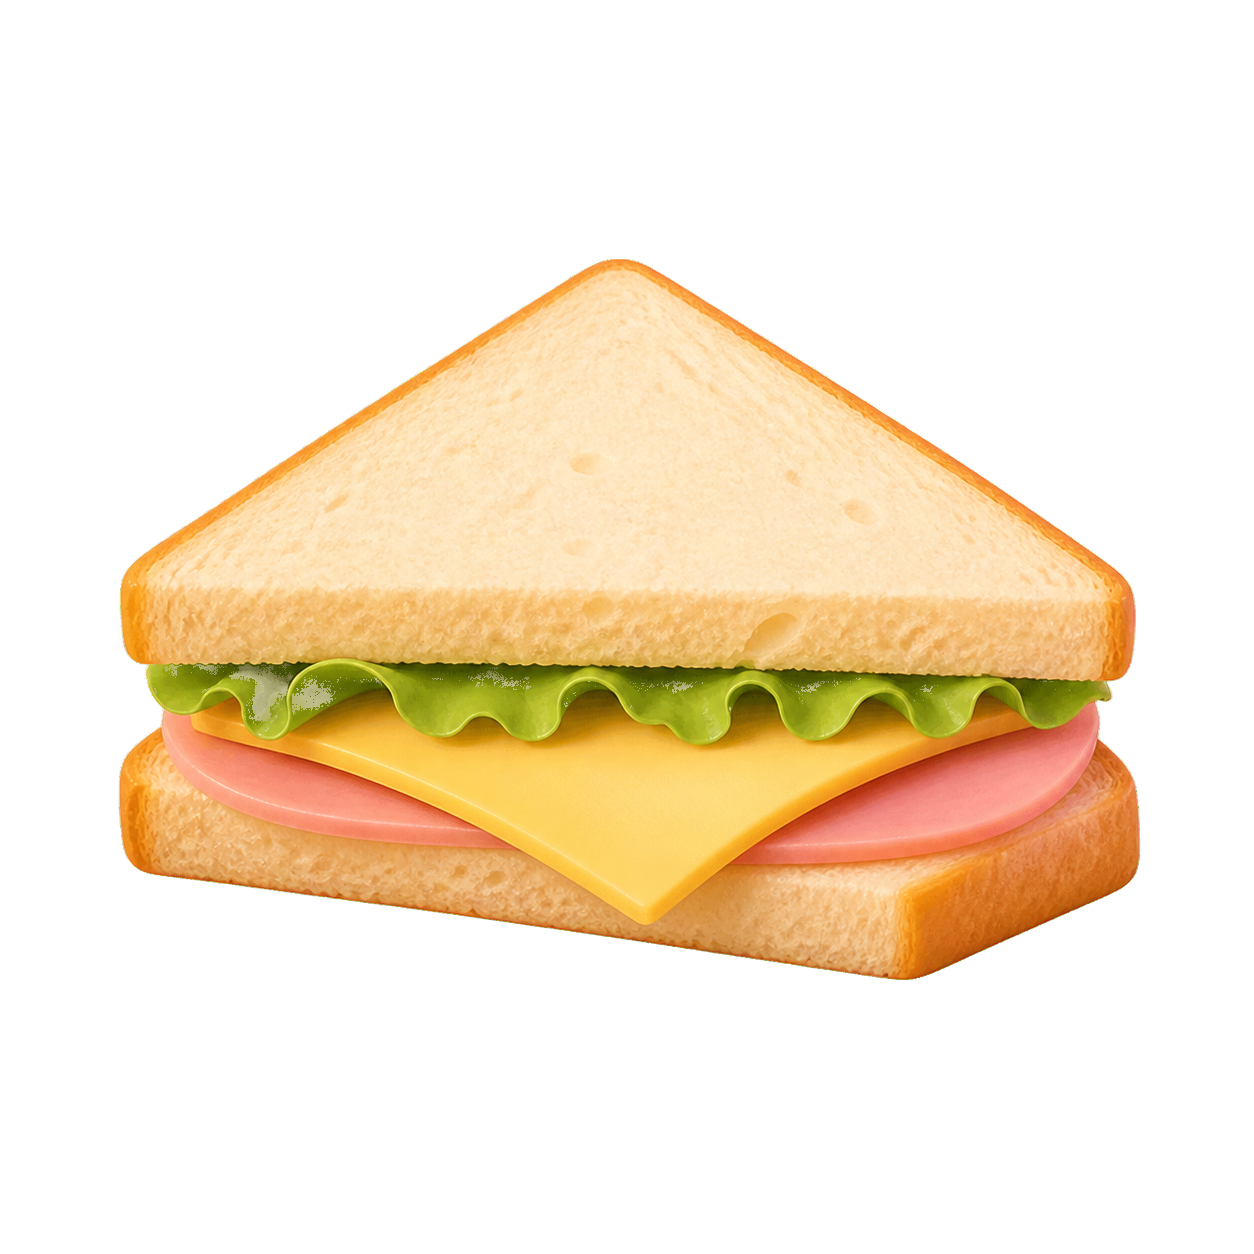
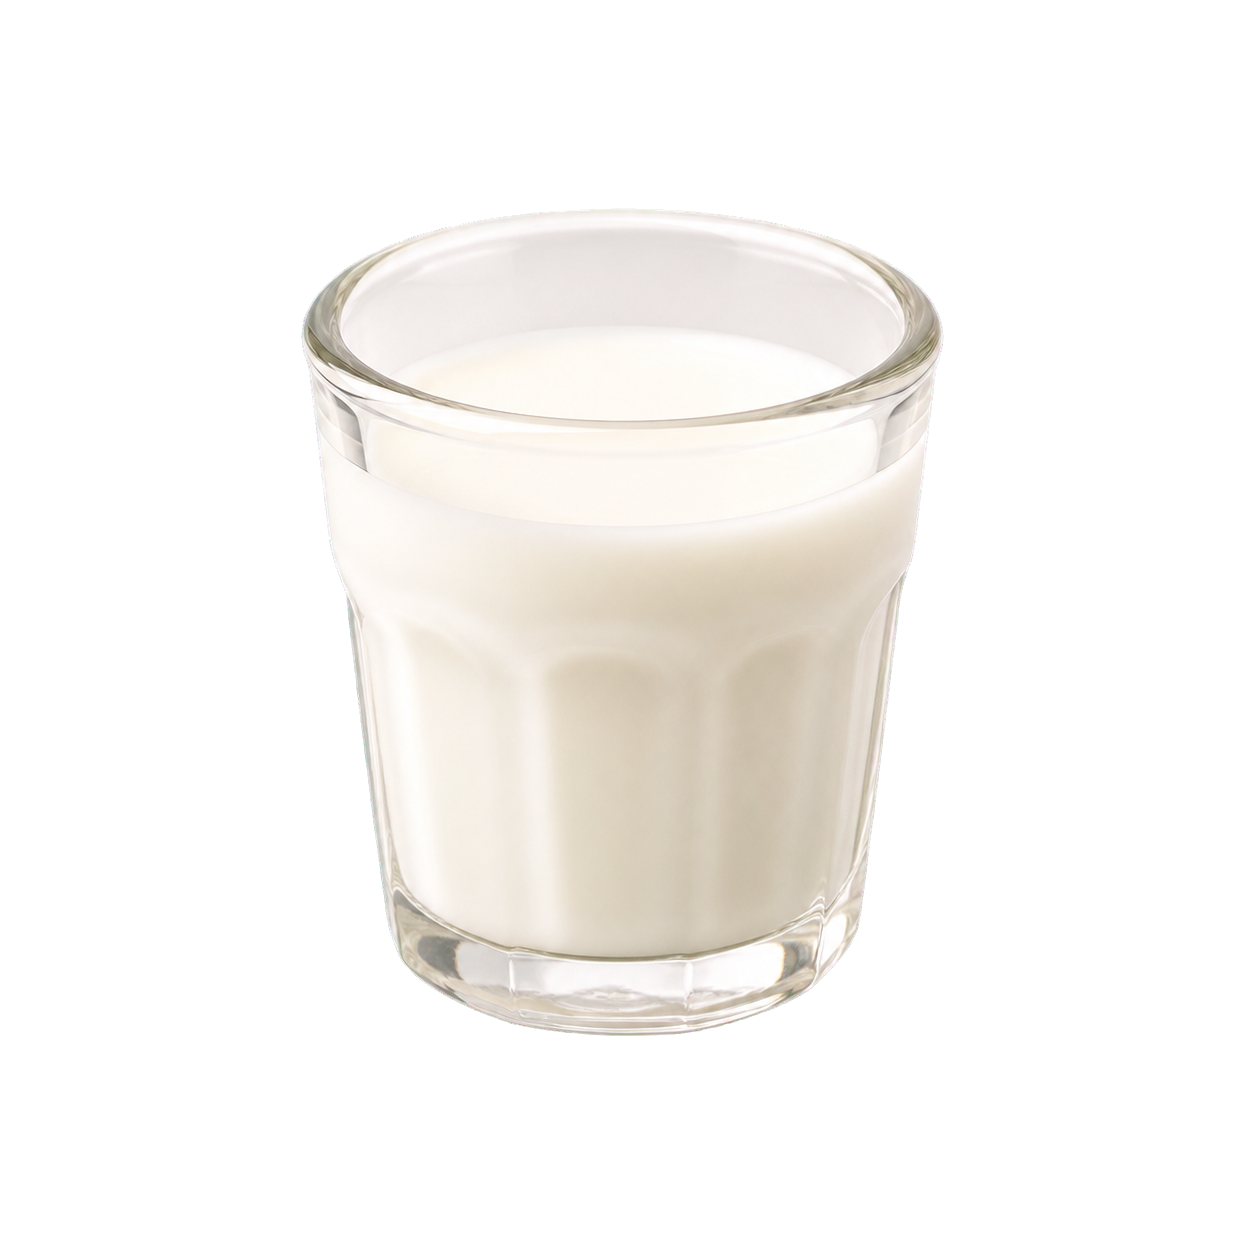
Repair cafe visuals and menu assets

diff --git a/mormi-web/app/globals.css b/mormi-web/app/globals.css
@@ -486,3 +486,106 @@ button.complete-report-link { width:100%; border:0; cursor:pointer; }
 .onboarding-greeting h1{font-size:clamp(34px,4.4vw,54px);letter-spacing:-3px}
 .home-room-copy h1{margin-bottom:24px;font-size:clamp(34px,4.2vw,52px);letter-spacing:-3px}
 @media(max-width:760px){.onboarding-greeting h1{font-size:32px;letter-spacing:-2px}.home-room-copy h1{font-size:30px;letter-spacing:-2px}}
+
+/* Cafe visual repair: one café room, stable card geometry, faithful Figma menu order */
+.figma-cafe{
+  --cafe-ink:#3c3028;
+  --cafe-caramel:#b9794d;
+  --cafe-caramel-dark:#855234;
+  --cafe-mint:#6ab89f;
+  --cafe-cream:#fffaf2;
+  --cafe-line:#e6ccb3;
+  padding:18px 24px 46px;
+  color:var(--cafe-ink);
+  background:
+    linear-gradient(180deg,rgba(255,250,244,.2) 0%,rgba(252,244,235,.7) 68%,rgba(251,244,236,.96) 100%),
+    url('/scenes/cafe-bakery-cute-v4.png') center top/cover fixed;
+}
+.figma-cafe__bar{
+  min-height:62px;margin-bottom:14px;padding:7px 12px;
+  grid-template-columns:120px auto 1fr;gap:18px;
+  border:1px solid rgba(218,190,163,.9);border-radius:20px;
+  background:rgba(255,252,247,.94);box-shadow:0 10px 28px rgba(106,73,51,.12);
+  backdrop-filter:blur(10px);
+}
+.figma-cafe__bar>button{border-color:#dfc1a6;color:#70472f;background:#fffaf5}
+.figma-cafe__place{display:flex;align-items:center;gap:8px;white-space:nowrap;color:#6c4028;font-size:17px;font-weight:950}
+.figma-cafe__place>span{width:34px;height:34px;display:grid;place-items:center;border-radius:50%;background:#f4dfc7}
+.figma-cafe__bar .figma-cafe__steps{justify-content:flex-end}
+.figma-cafe__bar .figma-cafe__steps span.is-active i{background:var(--cafe-caramel)}
+.figma-cafe__bar .figma-cafe__steps span:not(:last-child)::after{border-color:#d6b899}
+
+.figma-cafe-map,.figma-cafe-panel{
+  width:min(1133px,100%);min-height:700px;
+  border:1px solid rgba(222,193,167,.95);border-radius:30px;
+  box-shadow:0 26px 70px rgba(91,62,42,.18),inset 0 1px 0 rgba(255,255,255,.92);
+}
+.figma-cafe-panel{
+  padding:30px 34px;
+  background:
+    linear-gradient(rgba(255,252,246,.94),rgba(255,249,240,.97)),
+    url('/scenes/cafe-bakery-cute-v4.png') center/cover;
+}
+.figma-cafe-panel>h1,.figma-cafe-panel__heading h1{color:#4b3426;font-size:clamp(24px,2.3vw,31px);font-weight:900}
+.figma-cafe-panel>h2{margin-top:34px;color:#5c4639;font-size:clamp(23px,2.2vw,29px);font-weight:850}
+.figma-cafe-action,.figma-cafe-done button{
+  border:1px solid #57967f;color:#fff;background:linear-gradient(180deg,#79cbb0,#55a88d);box-shadow:0 6px 0 #397f69;font-weight:950;
+}
+.figma-cafe-action:disabled{box-shadow:none}
+.figma-cafe-feedback{padding:7px 14px;border-radius:12px;background:rgba(239,249,240,.9)}
+
+.figma-cafe-menu__layout{grid-template-columns:minmax(0,1fr) 225px;gap:26px}
+.figma-cafe-menu__grid{min-width:0;gap:18px}
+.figma-cafe-menu__grid button{
+  height:202px;padding:9px 15px 13px;grid-template-rows:112px 1fr;
+  border:2px solid var(--cafe-line);background:rgba(255,244,222,.95);box-shadow:0 8px 18px rgba(114,77,48,.08);
+}
+.figma-cafe-menu__grid button:hover{transform:translateY(-2px);border-color:#cca27b;box-shadow:0 11px 22px rgba(114,77,48,.14)}
+.figma-cafe-menu__grid button.is-selected{border-color:#66a47f;background:#edf7eb;box-shadow:0 0 0 2px rgba(102,164,127,.16),0 10px 22px rgba(71,119,88,.14)}
+.figma-cafe-menu__grid img{width:100%;height:112px;object-fit:contain}
+.figma-cafe-menu__grid b{font-size:18px;font-weight:850}.figma-cafe-menu__grid strong{font-weight:750}
+.figma-cafe-panel__heading>strong{border-color:#ddbd77;background:#ffe79b;color:#5b422c;font-weight:850}
+.figma-cafe-menu aside{min-width:0;min-height:422px;border:2px solid #cfe0c8;background:rgba(240,247,235,.96);box-shadow:0 8px 18px rgba(78,104,68,.08)}
+.figma-cafe-menu aside button{margin:auto 0 0;border-radius:16px;color:#fff;background:linear-gradient(#77c5a9,#56aa8f);font-weight:900}
+
+.figma-cafe-sum__equation{
+  width:min(960px,100%);margin:58px auto 0;
+  display:grid;grid-template-columns:minmax(210px,300px) 42px minmax(210px,300px) 42px minmax(190px,240px);gap:12px;
+}
+.figma-cafe-sum__equation>div{display:contents}
+.figma-cafe-sum__equation article{width:auto;min-width:0;min-height:220px;padding:24px;border:2px solid #ead4b7;background:rgba(255,241,211,.96);box-shadow:0 10px 22px rgba(117,80,49,.08)}
+.figma-cafe-sum__equation article span{font-size:22px;font-weight:850}.figma-cafe-sum__equation article strong{margin-top:27px;font-size:30px;font-weight:800;white-space:nowrap}
+.figma-cafe-sum__equation>b,.figma-cafe-sum__equation>div>b{display:grid;place-items:center;font-size:38px;font-weight:900}
+.figma-cafe-sum__equation label{width:auto;min-width:0;min-height:160px;padding:24px 20px;display:flex;flex-direction:column;justify-content:center;border:2px solid #cbe0ca;background:rgba(232,245,229,.98)}
+.figma-cafe-sum__equation label>span{font-size:17px;font-weight:850;white-space:nowrap}
+.figma-cafe-sum__equation label>div{width:100%;display:flex;align-items:baseline;justify-content:center;gap:5px}
+.figma-cafe-sum__equation input{width:calc(100% - 28px);font-size:31px;font-weight:900;text-align:center;white-space:nowrap}
+.figma-cafe-sum__equation input::placeholder{color:#779279}.figma-cafe-sum__equation small{flex:0 0 auto;font-size:21px;white-space:nowrap}
+.figma-cafe-money-hint{width:min(760px,92%);margin-top:48px;padding:15px 20px;gap:8px;background:rgba(232,240,255,.94)}
+.figma-cafe-money-hint span{width:82px;display:flex;flex-direction:column;align-items:center;color:#455b78;font-size:11px;line-height:1.05}
+.figma-cafe-money-hint img{width:76px;height:38px;object-fit:contain}.figma-cafe-money-hint b{white-space:nowrap}
+
+.figma-cafe-queue::before{background:rgba(235,242,255,.9)}
+.figma-cafe-queue__choice button{border:1px solid #e2cbaa;background:#f8e8c9}.figma-cafe-queue__choice button:last-child{background:#e7f3e4}
+.figma-cafe-pay__layout>aside,.figma-cafe-wallet article{background:rgba(255,248,237,.96)}
+.figma-cafe-change__equation{border:1px solid #e2c8a8;background:rgba(248,231,202,.95)}
+.figma-cafe-change__builder aside{background:rgba(235,242,255,.96)}
+
+@media(max-width:900px){
+  .figma-cafe__bar{grid-template-columns:105px 1fr}.figma-cafe__place{display:none}.figma-cafe__bar .figma-cafe__steps{justify-content:center}
+  .figma-cafe-sum__equation{grid-template-columns:minmax(150px,1fr) 32px minmax(150px,1fr);gap:8px}
+  .figma-cafe-sum__equation>div:nth-child(2)+b{display:none}
+  .figma-cafe-sum__equation label{grid-column:1/4;width:min(310px,100%);justify-self:center;min-height:112px}
+}
+@media(max-width:760px){
+  .figma-cafe{padding:7px 6px 24px;background-attachment:scroll;background-position:center top}
+  .figma-cafe__bar{grid-template-columns:78px 1fr;padding:5px 7px;border-radius:16px}.figma-cafe__bar>button{min-height:39px}
+  .figma-cafe-map,.figma-cafe-panel{border-radius:22px}.figma-cafe-panel{padding:20px 12px;background:linear-gradient(rgba(255,252,246,.96),rgba(255,249,240,.98)),url('/scenes/cafe-bakery-cute-v4.png') center/cover}
+  .figma-cafe-menu__grid{gap:9px}.figma-cafe-menu__grid button{height:174px;grid-template-rows:96px 1fr}.figma-cafe-menu__grid img{height:96px}
+  .figma-cafe-menu aside{min-height:230px}.figma-cafe-menu aside button{margin-top:14px}
+  .figma-cafe-sum__equation{margin-top:30px;grid-template-columns:1fr 26px 1fr;gap:6px}
+  .figma-cafe-sum__equation article{width:auto;min-height:158px;padding:12px 7px}.figma-cafe-sum__equation article span{font-size:16px}.figma-cafe-sum__equation article strong{margin-top:18px;font-size:19px}
+  .figma-cafe-sum__equation>b,.figma-cafe-sum__equation>div>b{font-size:27px}
+  .figma-cafe-sum__equation label{grid-column:1/4;min-height:96px;padding:12px}.figma-cafe-sum__equation input{font-size:26px}
+  .figma-cafe-money-hint{width:100%;margin-top:22px;padding:10px 7px}.figma-cafe-money-hint span{width:61px}.figma-cafe-money-hint img{width:58px;height:30px}
+}

diff --git a/mormi-web/app/CafeJourney.tsx b/mormi-web/app/CafeJourney.tsx
@@ -8,12 +8,12 @@ import { cafeMoney, cafeStations } from "./journey-config";
 type CafeStep = "overview" | "queue" | "menu" | "sum" | "pay" | "change" | "done";
 
 const menu = [
-  { id: "americano", name: "아메리카노", price: 3000, image: "/figma/cafe/americano.png" },
-  { id: "milk", name: "우유", price: 2000, image: "/figma/cafe/milk.png" },
-  { id: "strawberry-juice", name: "딸기주스", price: 4000, image: "/figma/cafe/strawberry-juice.png" },
-  { id: "cookie", name: "쿠키", price: 2000, image: "/figma/cafe/cookie.png" },
-  { id: "strawberry-cake", name: "딸기케이크", price: 3000, image: "/figma/cafe/strawberry-cake.png" },
-  { id: "sandwich", name: "샌드위치", price: 4000, image: "/figma/cafe/sandwich.png" },
+  { id: "americano", name: "아메리카노", price: 3000, image: "/figma/cafe/americano.png?v=2" },
+  { id: "milk", name: "우유", price: 2000, image: "/figma/cafe/milk.png?v=2" },
+  { id: "strawberry-juice", name: "딸기주스", price: 4000, image: "/figma/cafe/strawberry-juice.png?v=2" },
+  { id: "cookie", name: "쿠키", price: 2000, image: "/figma/cafe/cookie.png?v=2" },
+  { id: "strawberry-cake", name: "딸기케이크", price: 3000, image: "/figma/cafe/strawberry-cake.png?v=2" },
+  { id: "sandwich", name: "샌드위치", price: 4000, image: "/figma/cafe/sandwich.png?v=2" },
 ] as const;
 
 const stationCopy = [
@@ -147,7 +147,8 @@ export function CafeJourney({ onBack, onComplete }: Props) {
     <section className={`figma-cafe figma-cafe--${step}`}>
       <div className="figma-cafe__bar">
         <button onClick={step === "overview" ? onBack : returnToMap}>← {step === "overview" ? "외출 장소" : "돌다리"}</button>
-        <div aria-label="카페 진행 단계">
+        <strong className="figma-cafe__place"><span aria-hidden="true">☕</span> 모르미 카페</strong>
+        <div className="figma-cafe__steps" aria-label="카페 진행 단계">
           {cafeStations.map((station, index) => <span key={station} className={index <= stationIndex ? "is-active" : ""}><i>{index < journeyProgress ? "✓" : index + 1}</i>{station}</span>)}
         </div>
       </div>
@@ -203,10 +204,12 @@ export function CafeJourney({ onBack, onComplete }: Props) {
         <main className="figma-cafe-panel figma-cafe-sum" data-figma-node="74:8">
           <h1>3. 메뉴 값 합하기</h1><h2>고른 메뉴의 값을 모두 더해 봐요</h2>
           <div className="figma-cafe-sum__equation">
-            {selectedItems.map((item, index) => <div key={item.id}><article><Image src={item.image} alt="" width={130} height={90} unoptimized /><span>{item.name}</span><strong>{item.price.toLocaleString("ko-KR")}원</strong></article>{index < selectedItems.length - 1 && <b>＋</b>}</div>)}
-            <b>=</b><label><span>합계</span><input aria-label="메뉴 합계" inputMode="numeric" value={sumAnswer} onChange={(event) => { setSumAnswer(event.target.value.replace(/[^0-9]/g, "")); setSumFeedback(""); }} placeholder="?" /><small>원</small></label>
+            {selectedItems.map((item, index) => <div key={item.id}><article><span>{item.name}</span><strong>{item.price.toLocaleString("ko-KR")}원</strong></article>{index < selectedItems.length - 1 && <b aria-hidden="true">＋</b>}</div>)}
+            <b aria-hidden="true">=</b><label><span>합계</span><div><input aria-label="메뉴 합계" inputMode="numeric" value={sumAnswer} onChange={(event) => { setSumAnswer(event.target.value.replace(/[^0-9]/g, "")); setSumFeedback(""); }} placeholder="?" /><small>원</small></div></label>
           </div>
-          <div className="figma-cafe-money-hint">{Array.from({ length: Math.ceil(selectedTotal / 1000) }, (_, index) => <span key={index}>1,000원</span>)}</div>
+          <div className="figma-cafe-money-hint" aria-label={`천 원짜리 ${Math.ceil(selectedTotal / 1000)}장`}>
+            {Array.from({ length: Math.ceil(selectedTotal / 1000) }, (_, index) => <span key={index}><Image src="/cafe-money/1000.png" alt="" width={92} height={48} unoptimized /><b>1,000원</b></span>)}
+          </div>
           {sumFeedback && <p className="figma-cafe-feedback" role="status">{sumFeedback}</p>}
           <button className="figma-cafe-action" onClick={checkSum} disabled={!sumAnswer}>합계 확인</button>
         </main>

diff --git a/mormey.md b/mormey.md
@@ -135,6 +135,8 @@ AI 팀이 문제 생성 API를 만든다면 최소한 아래 구조로 반환하
 - 운영 전환 시 같은 구조를 `POST /v1/learners` 응답으로 교체한다.
 - 카페 필수 세션 `money-count`, `money-price`, `money-budget`, `money-mission` 네 개가 모두 완료되어야 카페가 열린다.
 - 카페 스테이지는 Figma `70:303`의 돌다리 화면을 기준으로 `줄 서기 → 메뉴 고르기 → 계산하기 → 거스름돈 받기` 순서이며, 직전 스테이지를 완료해야 다음 돌다리가 열린다.
+- 카페의 모든 상세 화면은 동일한 베이커리 카페 배경과 크림·캐러멜·민트 계열 카드 체계를 사용한다. 메뉴 이미지는 Figma `74:6`의 순서와 라벨을 기준으로 `아메리카노–우유–딸기주스 / 쿠키–딸기케이크–샌드위치`를 고정 매칭한다.
+- 메뉴 합계 화면(Figma `74:8`)은 선택한 두 메뉴를 가로식으로 표시하고, 합계 입력란의 숫자와 `원` 단위가 줄바꿈되지 않도록 구성한다. 천 원 힌트는 실제 1,000원 화폐 이미지를 사용한다.
 - 줄 서기는 Figma `74:4`처럼 왼쪽 4명과 오른쪽 2명을 직접 비교하여 더 짧은 줄을 고른다.
 - 메뉴 고르기는 Figma `74:6`처럼 아메리카노, 우유, 딸기주스, 쿠키, 딸기케이크, 샌드위치 6개와 `가진 돈 / 고른 메뉴 / 남은 돈`을 한 화면에 표시한다. 메뉴는 가진 돈 10,000원 안에서 두 개를 고른다.
 - 계산하기는 Figma `74:8`처럼 고른 메뉴 두 개의 가격을 더한 뒤, 100원·500원·1,000원·5,000원 화폐의 `+ / −` 조작으로 직원에게 낼 10,000원을 직접 만든다.

diff --git a/README.md b/README.md
@@ -29,6 +29,7 @@ npm run dev:vercel
 - `mormi-web/app/CafeJourney.tsx`: Figma 돌다리, 줄 비교, 메뉴 선택, 합계 입력, 돈·거스름돈 조합
 - `mormi-web/app/journey-config.ts`: 카페 해금에 필요한 과정과 화폐 정의
 - `mormi-web/public/figma/cafe/`: Figma에서 내려받은 카페 메뉴와 스테이지 원본 PNG
+- 카페 전 화면은 `cafe-bakery-cute-v4.png` 배경 위에 동일한 크림·캐러멜·민트 UI를 사용하며, 메뉴 PNG는 Figma `74:6`의 이름과 순서에 맞춰 관리합니다.
 - `mormi-web/app/api/morami/respond/route.ts`: Anthropic 응답과 로컬 대체 응답
 - `mormi-web/instrumentation-client.ts`: 개인정보 보호형 PostHog 초기화
 - `mormi-web/public/cafe-money/`: 100원, 500원, 1,000원, 5,000원 투명 PNG
